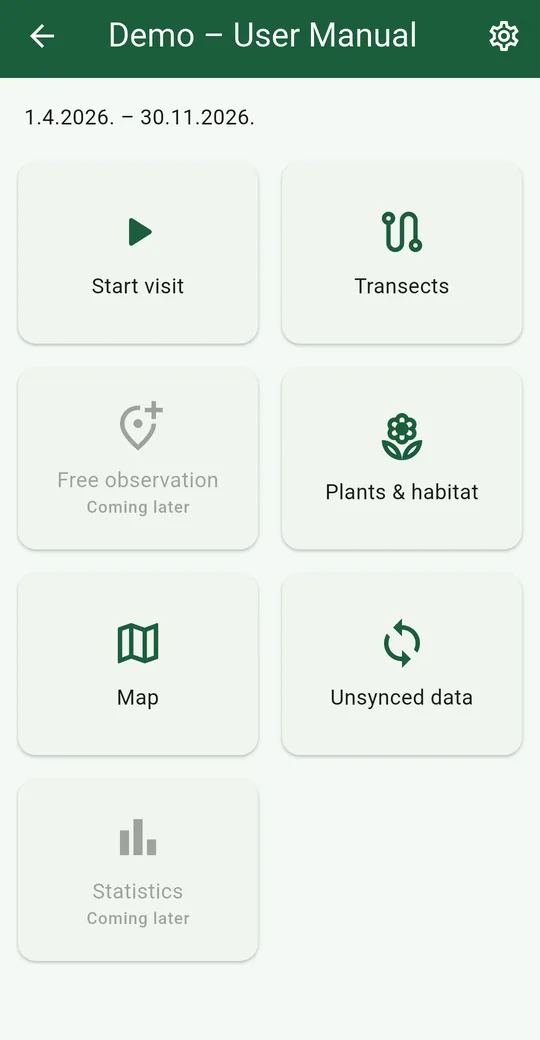
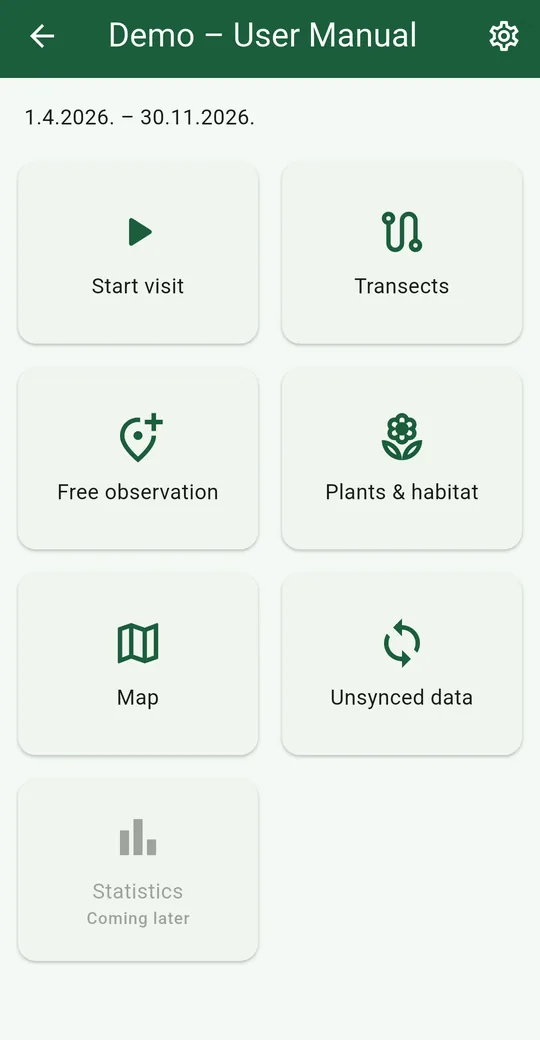
Updated manual

Changed region(s): [[0.0889, 0.3692, 0.4148, 0.4923]]

diff --git a/docs/manual/researcher.html b/docs/manual/researcher.html
@@ -73,6 +73,14 @@
       <li><a href="#not-conducted">Record a visit that did not happen</a></li>
     </ol>
   </li>
+  <li><a href="#free">Butterflies outside a walk</a>
+    <ol>
+      <li><a href="#free-open">Open the Free observation screen</a></li>
+      <li><a href="#free-record">Record the butterfly</a></li>
+      <li><a href="#free-position">Choose where it was</a></li>
+      <li><a href="#free-after">After saving</a></li>
+    </ol>
+  </li>
   <li><a href="#review">After the walk: review and correct</a>
     <ol>
       <li><a href="#review-visit">Look at a visit</a></li>
@@ -263,10 +271,10 @@
 <tr><td><span class="btn">Plants &amp; habitat</span></td><td>Your plant records and habitat features. See <a href="#plants">Plants and habitat</a>.</td></tr>
 <tr><td><span class="btn">Map</span></td><td>Everything on one map, with layers and filters. See <a href="#map">The map</a>.</td></tr>
 <tr><td><span class="btn">Unsynced data</span></td><td>What is waiting to sync, errors and conflicts. See <a href="#sync">Sync</a>.</td></tr>
-<tr><td><span class="btn">Free observation</span></td><td>Shows <em>Coming later</em>. Not available yet.</td></tr>
+<tr><td><span class="btn">Free observation</span></td><td>Record a butterfly you see outside a standard walk. See <a href="#free">Butterflies outside a walk</a>.</td></tr>
 <tr><td><span class="btn">Statistics</span></td><td>Shows <em>Coming later</em>. Not available yet.</td></tr>
 </table></div>
-<div class="box later"><span class="tag">Coming later</span><strong>Free observation</strong> will record butterflies seen outside a standard walk, such as incidental sightings and larval or host-plant searches, without a visit. <strong>Statistics</strong> will show your own figures offline: visits, true zeros, species, individuals per km and per hour, your top species and a weekly chart.</div>
+<div class="box later"><span class="tag">Coming later</span><strong>Statistics</strong> will show your own figures offline: visits, true zeros, species, individuals per km and per hour, your top species and a weekly chart.</div>
 
 <h2 id="protocol">The field method in short</h2>
 <p>The app records data, but the method is what makes it useful. This is the short version. The numbers below are the standard defaults, and <strong>each project can set its own</strong>. To see your project's values, open a transect and scroll to <strong>Protocol</strong>, or look at the start form.</p>
@@ -595,6 +603,65 @@
 <figure><a href="img/researcher/not-conducted.webp"><img src="img/researcher/not-conducted.webp" alt="Recording a visit that was planned but not walked. No weather or GPS is needed." width="540" height="1040"></a><figcaption>Recording a visit that was planned but not walked. No weather or GPS is needed.</figcaption></figure>
 </div>
 
+<h2 id="free">Butterflies outside a walk</h2>
+<p>Sometimes you see a butterfly when you are not walking a transect: an unusual species on the way to the field, a search for caterpillars, or a look at a host plant. A <strong>free observation</strong> records it without a visit. You need no transect and no start form, and it works without a connection.</p>
+<div class="box note"><span class="tag">Good to know</span>A free observation has no walk behind it: no route, no timed count and no transect section. It is kept as a record and shown on the map, but it is not part of the standardised counts that visits give, such as butterflies per kilometre or per hour.</div>
+
+<h3 id="free-open">Open the Free observation screen</h3>
+<p>There are two ways in:</p>
+<ul>
+  <li>On the project home screen, tap <span class="btn">Free observation</span>. The app takes your position for you.</li>
+  <li>Or open the <span class="btn">Map</span>, and <strong>press and hold</strong> on the ground where you saw the butterfly. The screen opens with that spot already chosen.</li>
+</ul>
+<div class="shots">
+<figure><a href="img/researcher/home.webp"><img src="img/researcher/home.webp" alt="The project home screen. Free observation is now an ordinary tile." width="540" height="1040"></a><figcaption>The project home screen. Free observation is now an ordinary tile.</figcaption></figure>
+<figure><a href="img/researcher/free-longpress.webp"><img src="img/researcher/free-longpress.webp" alt="After pressing and holding on the map, the screen opens with the spot you pressed." width="540" height="1040"></a><figcaption>After pressing and holding on the map, the screen opens with the spot you pressed.</figcaption></figure>
+</div>
+<p>Pressing and holding works anywhere on the map, also on a line, a plant or another record. It does not open a popup.</p>
+
+<h3 id="free-record">Record the butterfly</h3>
+<div class="shots">
+<figure><a href="img/researcher/free-screen.webp"><img src="img/researcher/free-screen.webp" alt="The Free observation screen. The top shows the source and where the butterfly was." width="540" height="1040"></a><figcaption>The Free observation screen. The top shows the source and where the butterfly was.</figcaption></figure>
+<figure><a href="img/researcher/free-source.webp"><img src="img/researcher/free-source.webp" alt="Source: Incidental, Larval search or Host plant search." width="540" height="1040"></a><figcaption>Source: Incidental, Larval search or Host plant search.</figcaption></figure>
+<figure><a href="img/researcher/free-search.webp"><img src="img/researcher/free-search.webp" alt="Type part of a name to search. The source and position stay in view." width="540" height="1040"></a><figcaption>Type part of a name to search. The source and position stay in view.</figcaption></figure>
+<figure><a href="img/researcher/free-ready.webp"><img src="img/researcher/free-ready.webp" alt="The chosen species and the count are above Save." width="540" height="1040"></a><figcaption>The chosen species and the count are above Save.</figcaption></figure>
+</div>
+<ol class="steps">
+  <li><strong>Choose the source.</strong> It starts as <em>Incidental</em>, a sighting by chance. Choose <em>Larval search</em> if you were looking for caterpillars or eggs, or <em>Host plant search</em> if you were looking at host plants.</li>
+  <li><strong>Choose the species</strong> from <strong>Recent</strong> or <strong>Favourites</strong>, or type in <span class="btn">Search a species</span>. When you pick one, the keyboard closes and the count and <span class="btn">Save</span> come back.</li>
+  <li><strong>Set the count</strong> with − and +, as for a visit. Press and hold the number to type a large one.</li>
+  <li><strong>Add details if you like.</strong> <span class="btn">Details</span> works as in a visit: sex, life stage, behaviour, notes and photos. See <a href="#details">Add details</a> and <a href="#photos">Add photos</a>. <em>Facing direction</em> is only offered when your own position is used, because a spot you placed on the map may not be where you stood.</li>
+  <li><strong>Tap <span class="btn">Save</span>.</strong></li>
+</ol>
+
+<h3 id="free-position">Choose where it was</h3>
+<p>The line under the source says where the butterfly will be placed. The default is <strong>your position</strong>.</p>
+<ul>
+  <li><strong>My position.</strong> The app asks for your GPS position as soon as the screen opens, so it is usually ready when you have chosen the species. It shows the position and how accurate it is, for example <em>(±5 m)</em>. If you wait a long time before saving, the app asks again so the position is current. Without a position yet, the line says <em>My position, found on save</em>.</li>
+  <li><strong>Place on map.</strong> Tap <span class="btn">Place on map</span> to put the butterfly somewhere else, for example when you saw it across a field. Tap the map or drag the pin, then tap the tick at the top right. The line then says <em>Placed on map</em> with the position.</li>
+  <li><strong>Move</strong> opens the map again with the pin where it is. <span class="btn">My position</span> goes back to your own GPS position.</li>
+</ul>
+<div class="shots">
+<figure><a href="img/researcher/free-capture.webp"><img src="img/researcher/free-capture.webp" alt="Place on map. Tap or drag the pin, then tap the tick. Use my position puts the pin where you are." width="540" height="1040"></a><figcaption>Place on map. Tap or drag the pin, then tap the tick. Use my position puts the pin where you are.</figcaption></figure>
+</div>
+<div class="box note"><span class="tag">Good to know</span>A place you chose on the map has <strong>no GPS accuracy</strong>, so the record shows <em>accuracy unknown</em>. This is correct: the app cannot know how well you placed it. The same is true if you use <span class="btn">Use my position</span> inside the map screen.</div>
+<p>If location is switched off, Save stays open and says <em>Location is off, please turn it on.</em> Either turn Location on in Android and tap Save again, or tap <span class="btn">Place on map</span> and choose the spot yourself. When you have placed a point, the message goes away.</p>
+
+<h3 id="free-after">After saving</h3>
+<ul>
+  <li>The screen closes and a message offers <span class="btn">Undo</span> for 10 seconds, as for a visit.</li>
+  <li><strong>Time:</strong> the moment you tapped Save. There is no time field, so save the record when you see the butterfly. For an older sighting, mention the real time in the notes under <span class="btn">Details</span>.</li>
+  <li><strong>Section:</strong> always empty, because there is no transect.</li>
+  <li>The record shows on the <span class="btn">Map</span> as an orange dot. Tap it, then <span class="btn">Open</span> to see it. It is not listed under a visit, because it has none.</li>
+  <li>You can correct it like any record, with the pencil: species, count and details. See <a href="#edit-observation">Correct a record</a>. The position and the source stay as recorded.</li>
+  <li>It syncs with everything else. A point outside the project area is flagged for an admin to check, and a species that needs a photo waits for validation, as in a visit.</li>
+</ul>
+<div class="shots">
+<figure><a href="img/researcher/free-popup.webp"><img src="img/researcher/free-popup.webp" alt="On the map, the new record shows its species and time. Open shows the whole record." width="540" height="1040"></a><figcaption>On the map, the new record shows its species and time. Open shows the whole record.</figcaption></figure>
+<figure><a href="img/researcher/free-detail.webp"><img src="img/researcher/free-detail.webp" alt="The record. Source says Larval search, Section is empty and the position says accuracy unknown." width="540" height="1040"></a><figcaption>The record. Source says Larval search, Section is empty and the position says accuracy unknown.</figcaption></figure>
+</div>
+<div class="box later"><span class="tag">Coming later</span>Butterflies seen while recording a better route for a transect will use this same screen.</div>
+
 <h2 id="review">After the walk: review and correct</h2>
 <h3 id="review-visit">Look at a visit</h3>
 <p>Open <span class="btn">Transects</span>, tap the transect, and tap the visit under <strong>My visits</strong>. A draft reopens the start form, and a visit in progress reopens the visit screen. Any other visit opens this read-only page:</p>
@@ -721,7 +788,7 @@
 </ul>
 
 <h2 id="map">The map</h2>
-<p>Open the <span class="btn">Map</span> tile to see everything in the project on one map.</p>
+<p>Open the <span class="btn">Map</span> tile to see everything in the project on one map. Press and hold on the ground to record a butterfly there. See <a href="#free">Butterflies outside a walk</a>.</p>
 <div class="shots">
 <figure><a href="img/researcher/map.webp"><img src="img/researcher/map.webp" alt="The project map. Numbers are clusters of records, and tapping one zooms in." width="540" height="1040"></a><figcaption>The project map. Numbers are clusters of records, and tapping one zooms in.</figcaption></figure>
 <figure><a href="img/researcher/map-layers.webp"><img src="img/researcher/map-layers.webp" alt="Layers: turn each kind of data on or off." width="540" height="1040"></a><figcaption>Layers: turn each kind of data on or off.</figcaption></figure>
@@ -876,6 +943,7 @@
 <tr><td><em>Tick the true-zero confirmation.</em></td><td>A visit with no butterflies needs the tick, or use Cancel visit.</td></tr>
 <tr><td><em>The true-zero confirmation does not match the butterfly records</em></td><td>A visit confirmed as having no butterflies cannot have butterfly records.</td></tr>
 <tr><td><em>A value is not one of the allowed choices</em></td><td>The app may be out of date. Update it.</td></tr>
+<tr><td><em>Location is off, please turn it on.</em></td><td>Save needs your GPS position. Turn on Location in Android's quick settings and tap Save again. For a free observation you can also tap Place on map and choose the spot.</td></tr>
 <tr><td><em>The position is not valid</em></td><td>The location or shape cannot be used. Set it again.</td></tr>
 <tr><td><em>Notes are required when the plant is not identified</em></td><td>Describe the unidentified plant in Notes.</td></tr>
 <tr><td><em>This species needs a photo. The record will wait for validation</em></td><td>A warning only. Add a photo if you can.</td></tr>
@@ -904,6 +972,8 @@
 <p>Pull the list down to refresh. If it stays empty, an admin has not added you to a project yet.</p>
 <h4>A project disappeared from my list.</h4>
 <p>An admin may have removed you from it. The records you already synced are safe on the server. Ask your admin.</p>
+<h4>I saw a butterfly but I am not on a walk.</h4>
+<p>Use <span class="btn">Free observation</span> on the project home screen, or press and hold on the map. See <a href="#free">Butterflies outside a walk</a>.</p>
 <h4>The distance to the transect is wrong.</h4>
 <p>Tap the location icon on the transect list to take a new position. Indoors, or just after turning on GPS, the position can be poor.</p>
 <h4>The app does not record my route when the screen is off.</h4>
@@ -934,7 +1004,6 @@
 <div class="tablewrap"><table>
 <tr><th>Feature</th><th>What it will do</th></tr>
 <tr><td>Download page and public server</td><td>Install the app from a website and log in, with no server setup at all.</td></tr>
-<tr><td>Free observation</td><td>Record butterflies outside a standard walk: incidental sightings, larval searches and host-plant searches. It will also open by pressing and holding on the map.</td></tr>
 <tr><td>Statistics</td><td>Your own figures offline: visits, true zeros, species, individuals per km and per hour, top 10 species and a weekly chart for a species.</td></tr>
 <tr><td>Add to a finished visit</td><td>Add a forgotten butterfly to a visit you have finished.</td></tr>
 <tr><td>Route proposals</td><td>Record a better route in the field for an admin to accept.</td></tr>
